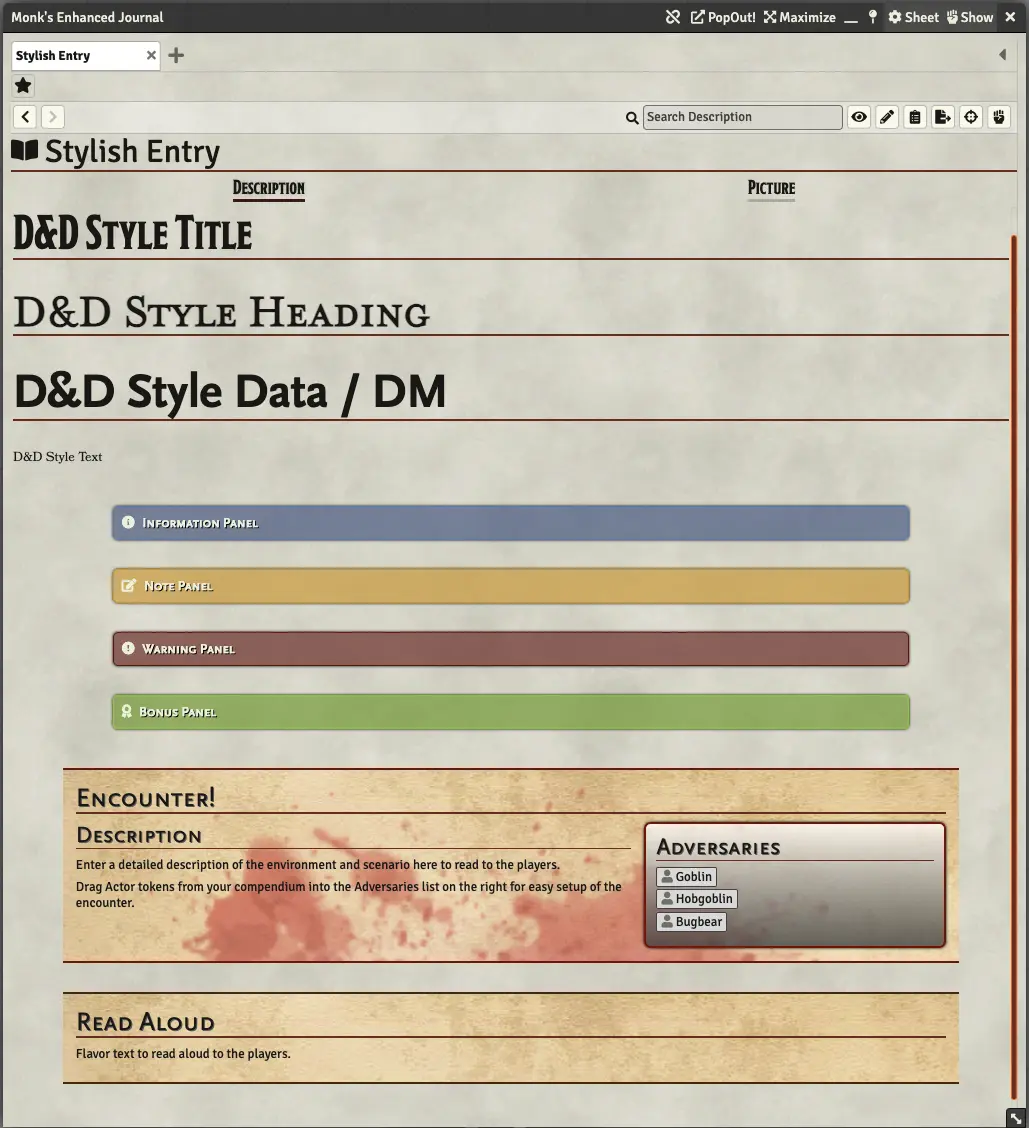
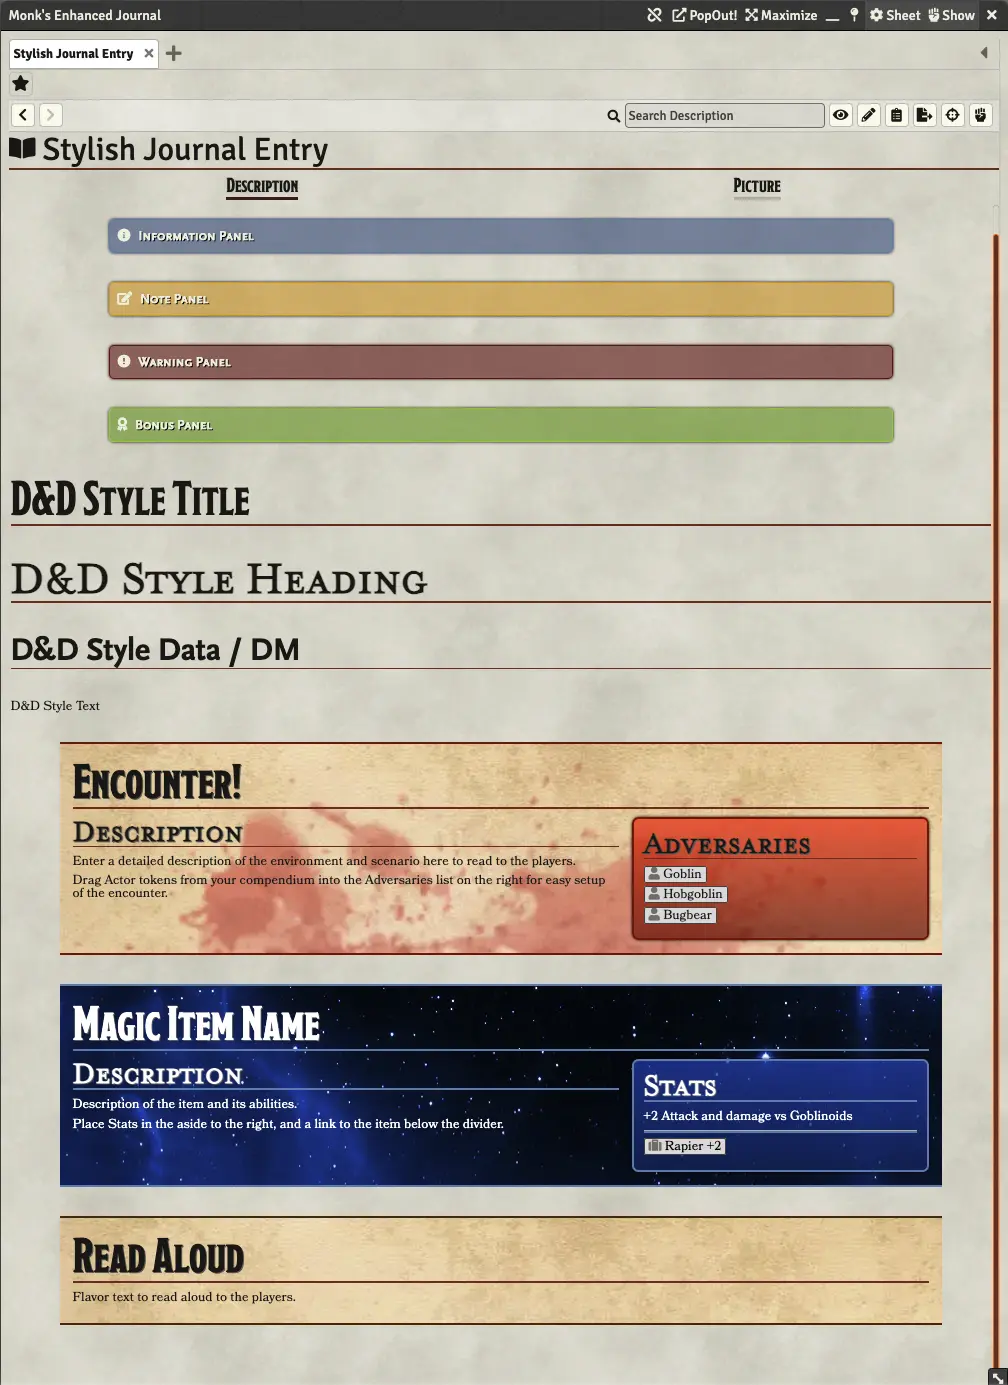
Updated images. Added Magic Item Block. Tweaks.

diff --git a/styles/apsj.css b/styles/apsj.css
@@ -267,54 +267,37 @@ li > .entity-link {
     flex: 2;
 }
 
-.block h1,
+.block h1 {
+    font-family: 'Modesto';
+    font-weight: 700;
+    text-shadow: 1px 1px #666666;
+}
+
 .block h2,
 .block h3,
 .block h4,
 .block h5,
 .block h6 {
-    font-family: 'ScalySansCaps';
-    font-weight: 400;
+    font-family: 'MrEaves';
+    font-weight: 700;
     text-shadow: 1px 1px #666666;
 }
 
-.block h1 {
-    font-size: 2em;
-}
-
-.block h2 {
-    font-size: 1.75em;
-}
-
-.block h3 {
-    font-size: 1.5em;
-}
-
-.block h4 {
-    font-size: 1.25em;
-}
-
-.block h5 {
-    font-size: 1em;
-}
-
-.block h6 {
-    font-size: 0.75em;
+.block p {
+    font-family: 'Bookinsanity';
+    font-weight: 400;
 }
 
 .block.encounter {
     border-top: 2px solid #800000;
     border-bottom: 2px solid #800000;
-    background: url('../images/bloody-light-parchment.jpg');
+    background: url('../images/bloody-light-parchment.webp');
 }
 
-.light-overlay {
+.red-overlay {
     margin: 0;
     padding: 10px;
-    background: linear-gradient(
-        rgba(256, 256, 255, 0.75),
-        rgba(64, 64, 64, 0.75)
-    );
+    background: linear-gradient(rgba(255, 0, 0, 0.75), rgba(124, 0, 0, 0.75));
     border: 2px solid #800000;
     border-radius: 0.5em;
     box-shadow: 0 0 3px var(--color-shadow-dark);
@@ -323,5 +306,43 @@ li > .entity-link {
 .block.read-aloud {
     border-top: 2px solid #552900;
     border-bottom: 2px solid #552900;
-    background: url('../images/light-parchment.jpg');
+    background: url('../images/light-parchment.webp');
+}
+
+.block.magic-item {
+    color: #ffffff;
+    border-top: 2px solid #5c87b9;
+    border-bottom: 2px solid #5c87b9;
+    background: url('../images/magic-bg.webp');
+}
+
+.block.magic-item h1,
+.block.magic-item h2,
+.block.magic-item h3,
+.block.magic-item h4,
+.block.magic-item h5,
+.block.magic-item h6,
+.block.magic-item hr {
+    border-bottom: 2px solid #5c87b9;
+}
+
+.blue-overlay {
+    margin: 0;
+    padding: 10px;
+    background: linear-gradient(rgba(6, 68, 180, 0.75), rgba(0, 40, 103, 0.75));
+    border: 2px solid #5c87b9;
+    border-radius: 0.5em;
+    box-shadow: 0 0 3px var(--color-shadow-dark);
+}
+
+.light-overlay {
+    margin: 0;
+    padding: 10px;
+    background: linear-gradient(
+        rgba(255, 255, 255, 0.75),
+        rgba(64, 64, 64, 0.75)
+    );
+    border: 2px solid #800000;
+    border-radius: 0.5em;
+    box-shadow: 0 0 3px var(--color-shadow-dark);
 }

diff --git a/scripts/apsj.js b/scripts/apsj.js
@@ -68,9 +68,15 @@ Hooks.on('ready', () => {
         {
             title: 'Block: Encounter',
             description:
-                'A stylish block for putting encounter data and descrptions.',
+                'A stylish block for displaying encounter data and descrptions.',
             content:
-                '<section class="block encounter"><header><h1>Encounter!</h1></header><div class="block-contents"><main><h2>Description</h2><p>Enter a detailed description of the environment and scenario here to read to the players.</p><p>Drag Actor tokens from your compendium into the Adversaries list on the right for easy setup of the encounter.</p></main><aside class="light-overlay"><h2>Adversaries</h2><p></p></aside></section>',
+                '<section class="block encounter"><header><h1>Encounter!</h1></header><div class="block-contents"><main><h2>Description</h2><p>Enter a detailed description of the environment and scenario here to read to the players.</p><p>Drag Actor tokens from your compendium into the Adversaries list on the right for easy setup of the encounter.</p></main><aside class="red-overlay"><h2>Adversaries</h2><p></p></aside></section>',
+        },
+        {
+            title: 'Block: Magic Item',
+            description:
+                "A stylish block to display a magic item's description and stats.",
+            content: `<section class="block magic-item"><header><h1>Magic Item Name</h1></header><div class="block-contents"><main><h2>Description</h2><p>Description of the item and its abilities.</p><p>Place Stats in the aside to the right, and a link to the item below the divider.</p></main><aside class="blue-overlay"><h2>Stats</h2><p></p><hr><p style="color: #000000"></p></aside></section>`,
         },
         {
             title: 'Block: Read Aloud',
